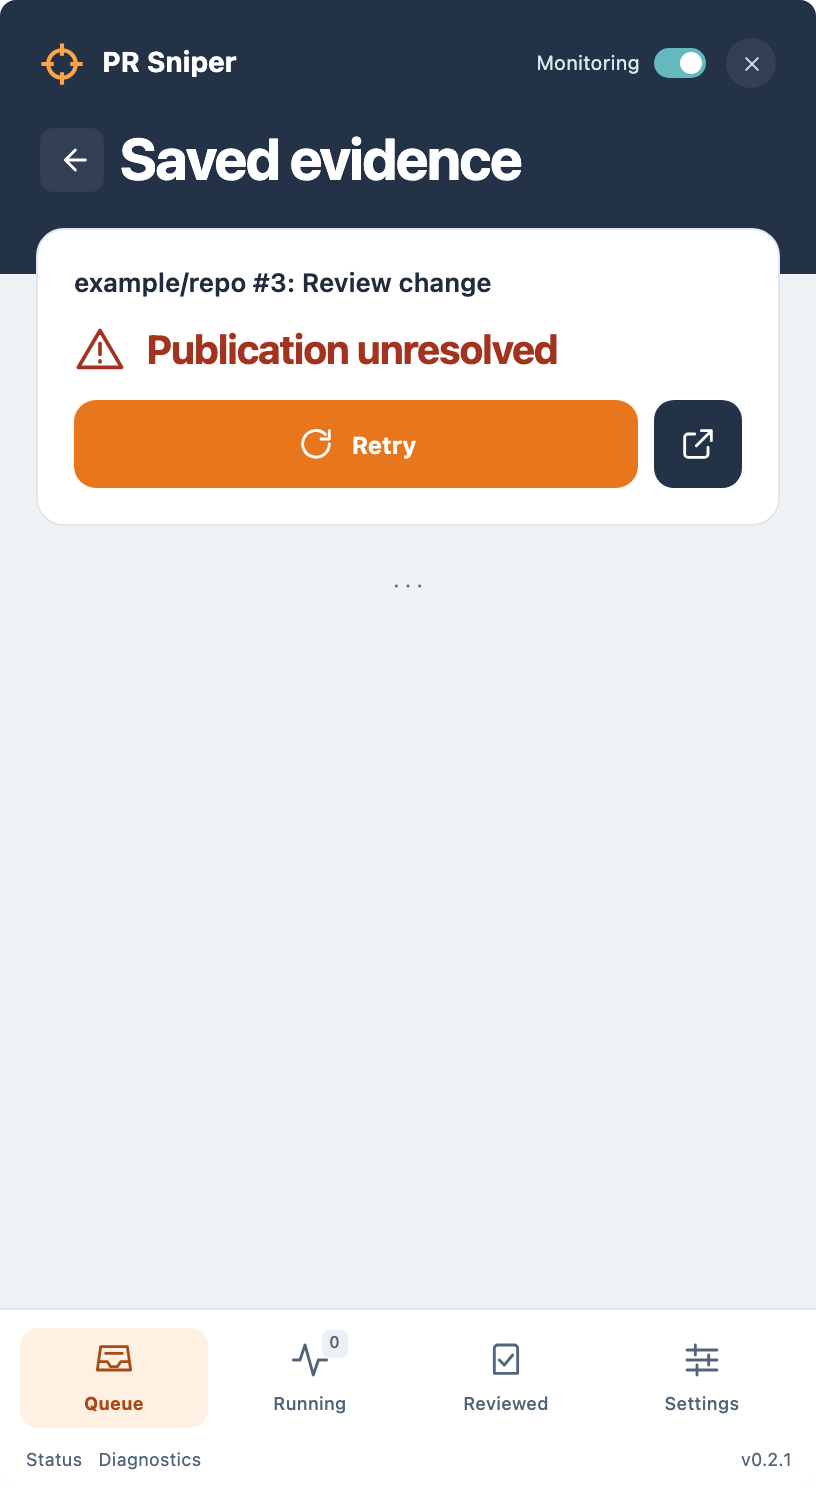
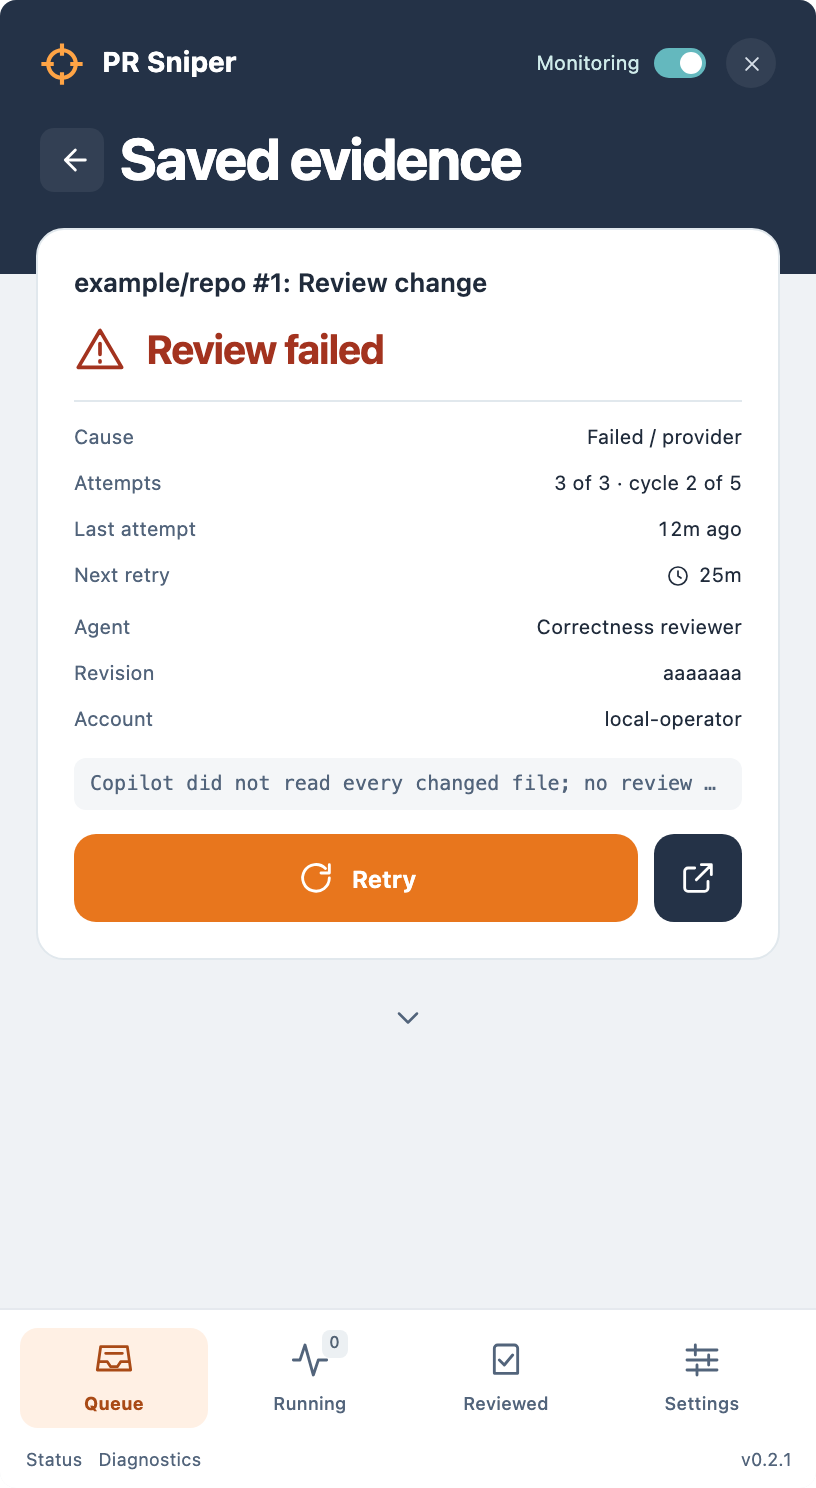
docs: document auto-resume; retake failed-detail screenshot

diff --git a/docs/adr/0007-retry-then-park-single-inbox.md b/docs/adr/0007-retry-then-park-single-inbox.md
@@ -12,13 +12,17 @@ Provider and AI failures are transient or permanent. Unbounded retry hides fault
 - Every parked failure lands in one inbox: Queue > **Needs attention**. Cause chip: Credentials, Permission, Network, Failed.
 - Row action: **Fix** for credentials (opens Accounts), **Retry** otherwise. **Retry all** pill.
 - No user-facing "Blocked" state. Running tab shows active + queued only.
-- User Retry or Fix starts a new operation. History kept. Resume never resets counts.
+- User Retry starts a new operation (cooldown cycle 0). History kept.
+- Auto-resume: resumable parked failures (transient, permission) requeue with a fresh 3-attempt budget after 30m, 1h, 2h, 4h, 8h; five cycles then human-only. Credentials resume when the GitHub or Copilot account connects again (a connect transition, or the first tick after start). Permanent never resumes. Superseded/closed/merged work is skipped.
+- Agent-quality rejections ("did not read every changed file", "execution failure") are Provider-class, so they retry.
 - AI budget starts at worker start. Cancel refunds only intentional cancel or discarded successful output. Real failure racing pause stays failure.
 
 ## Consequences
 
 - Restart-safe. No silent retry loops.
-- Parked work waits for a human. Nothing auto-resumes.
+- AI cost is bounded: at most 3 attempts x 6 windows per failing work item before a human is needed.
+- Cooldown state persists (serde-default `resume_cycle`, `resume_at`); old data loads.
+- Auto-resume covers review runs and repository poll operations. Follow-up/primary-final/publication operations still wait for a human.
 - Completed reviews stay Ready despite config drift or disabled repo.
 - Rust-internal `blocked` reason may linger in `capacity`. Not surfaced.
 - Code = 3 attempts total. Old prose said "three retries".

diff --git a/docs/review-queue.md b/docs/review-queue.md
@@ -8,7 +8,8 @@ Reference for Queue states, evidence, local Agent reviews, retry/parking and not
 - Distinct, never merged: queued/reviewing, pending publication, failed, stale. No user-facing Blocked state ([ADR-0007](adr/0007-retry-then-park-single-inbox.md)).
 - Machine sign-off is not approval. Human decides approve and merge.
 - Retry: transient failures retry with backoff, 3 failed attempts, then **park** (`MAX_FAILED_ATTEMPTS`, `RETRY_WINDOW_SECONDS` = 15 min in `src-tauri/src/monitoring.rs`). Credential, permission and permanent failures park immediately.
-- Parked failures live in Queue > **Needs attention**: cause chip, **Fix** (credentials → Accounts) or **Retry**, **Retry all** pill. Running holds active + queued only.
+- Auto-resume: a parked Network/Provider/Timeout/RateLimited/Permission failure gets a fresh 3-attempt budget after a cooldown of 30m, 1h, 2h, 4h, 8h (`RESUME_COOLDOWNS_SECONDS`; `resume_cycle`, `resume_at` on the operation). After five cycles it waits for a human. Credential failures resume when the GitHub or Copilot account connects again. Explicit Retry starts a new operation (cycle 0). Permanent failures never resume. Superseded, closed and merged work is never resumed.
+- Parked failures live in Queue > **Needs attention**: cause chip, **Fix** (credentials → Accounts) or **Retry**, **Retry all** pill. A clock + time shows the next automatic retry. Failed detail lists Cause, Attempts, Last attempt, Next retry, Agent, Revision, Account and the raw error. Running holds active + queued only.
 - Stale only on new head or base. Completed reviews stay Ready despite config drift or a disabled repo. Merged/closed PRs move to Reviewed; tracked PRs of disabled repos keep a light lifecycle refresh.
 - Queue identity is derived from stored tracking, not position.
 

diff --git a/CONTEXT.md b/CONTEXT.md
@@ -139,7 +139,7 @@ _Avoid_: Auto-merge approval
 ### Failure and retry
 
 **Retry budget**:
-Persisted per operation: attempt count, retry deadline, state. Survives restart and resume without reset. Transient failures auto-retry with backoff; 3 failed attempts then **Park**. The AI review window starts when the worker starts, not at enqueue. Credentials, permission and permanent failures park at once. Parked retry starts a new operation, keeping history.
+Persisted per operation: attempt count, retry deadline, state. Survives restart and resume without reset. Transient failures auto-retry with backoff; 3 failed attempts then **Park**. The AI review window starts when the worker starts, not at enqueue. Credentials, permission and permanent failures park at once. Parked retry starts a new operation, keeping history. Cooldown cycles (30m, 1h, 2h, 4h, 8h; `resume_cycle`, `resume_at`) grant each resumable failure a fresh budget, up to five.
 _Avoid_: Retry count, unlimited retry
 
 **Failure class**:
@@ -147,7 +147,7 @@ Cause label on a failed item: Credentials, Permission, Network, Failed. Decides 
 _Avoid_: Error type
 
 **Parked failure**:
-Operation that exhausted its **Retry budget** or failed non-transiently. Waits for explicit user action in Queue under **Needs Attention**, never in Running.
+Operation that exhausted its **Retry budget** or failed non-transiently. Listed in Queue under **Needs Attention**, never in Running. Auto-resumes: network, provider, timeout, rate-limit and permission failures after a cooldown (five cycles, then a human); credentials when the account connects again. Permanent failures wait for the user.
 _Avoid_: Blocked, dead job
 
 **Stopping slot**:

diff --git a/README.md b/README.md
@@ -28,7 +28,7 @@ PR queues grow. Agents read diffs fast and never get bored. Humans should read P
 2. Admission decides which PRs enter: **All** or ordered **Filtered** rules (assigned, mentioned, include/exclude users, include/exclude paths). First enabled matching rule wins.
 3. One review per head SHA. New push = new revision = another review. Same revision: agent only replies to new comments.
 4. Agents see description, changed files and all comments. They act only with explicit permissions: **Publish Comment**, **Reply Comment**, **Approve**, **& Merge**. New assignments start with every grant off.
-5. Results land in **Queue**: **Ready for you** or **Needs attention**. Transient failures retry with backoff, 3 attempts, then park. Credential, permission and permanent failures park at once. Parked rows offer **Fix** (credentials, goes to Accounts) or **Retry**.
+5. Results land in **Queue**: **Ready for you** or **Needs attention**. Transient failures retry with backoff, 3 attempts, then park. Credential, permission and permanent failures park at once. Parked failures auto-resume (cooldowns 30m to 8h, five cycles; credentials on reconnect). Rows offer **Fix** (credentials, goes to Accounts) or **Retry**.
 6. Merged or closed PRs move to **Reviewed**. Results stay local.
 
 ## Install

diff --git a/CHANGELOG.md b/CHANGELOG.md
@@ -18,6 +18,14 @@ Stable release tags use Semantic Versioning; see [release operations](docs/relea
   lists every parked failure with a cause chip: **Fix** for credentials,
   **Retry** for the rest, plus **Retry all**. Running shows only active and
   queued work.
+- Parked failures auto-resume. Network, provider, timeout, rate-limit and
+  permission failures get a fresh 3-attempt budget after 30m, 1h, 2h, 4h, 8h
+  (five cycles), then wait for a human. Credential failures resume when the
+  GitHub or Copilot account connects again. Agent-quality rejections ("did not
+  read every changed file", "execution failure") now retry. A new head
+  supersedes a parked older-head failure. Needs attention rows show a clock
+  and time to the next retry; failed detail shows a facts grid (cause,
+  attempts, last attempt, next retry, Agent, revision, account, raw error).
 - Remove the **Blocked** state. A completed review stays Ready after config
   drift or a disabled repository; it goes Stale only on a new head or base.
 - Queue item detail leads with the failure or state and one action
